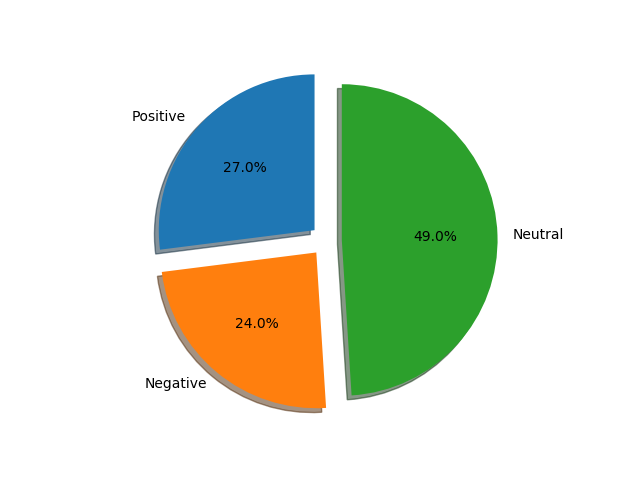
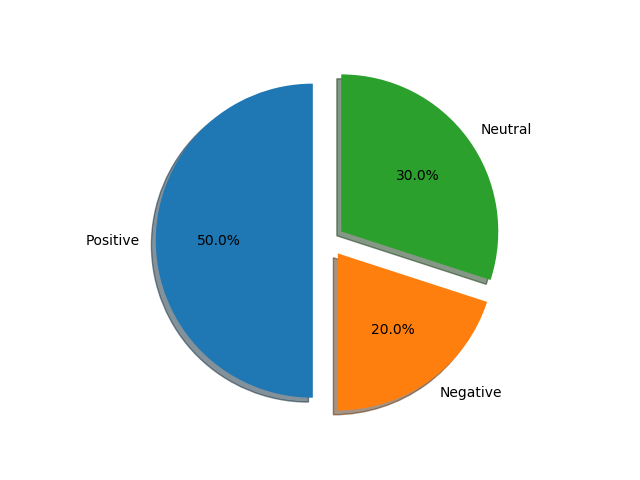
Live Updates
Labels added and drilldown needs to be worked on

diff --git a/templates/tweet.html b/templates/tweet.html
@@ -3,27 +3,137 @@
 <head>
     <meta charset="UTF-8">
     <title>{{ title }}</title>
+    <script src="https://code.highcharts.com/highcharts.js"></script>
+    <script src="https://ajax.googleapis.com/ajax/libs/jquery/3.3.1/jquery.min.js"></script>
 </head>
 <body>
-    <h1>{{ title }}</h1>
-    <img src={{ url}} alt="Chart">
-    <h3>Positive Sentiment: {{ pPer }}%</h3>
-    <ol>
-        {%for i in range(0, pTweetLen)%}
-            <li><img src="{{ pListProfile[i] }}">{{pList[i]}}</li>
-        {%endfor%}
-    </ol>
-    <h3>Neutral Sentiment: {{ nuP }}%</h3>
-    <ol>
-        {%for i in range(0, tweetslen)%}
-            <li>{{List[i]}}</li>
-        {%endfor%}
-    </ol>
-    <h3>Negative Sentiment: {{ negP }}%</h3>
-    <ol>
-        {%for i in range(0, nTweetlen)%}
-            <li>{{nList[i]}}</li>
-        {%endfor%}
-    </ol>
+<h1>{{ title }}</h1>
+<div id="container" style="width:100%; height:400px;"></div>
+<!--img src={{ url}} alt="Chart"-->
+<h3>Positive Sentiment: {{ pPer }}%</h3>
+<ol>
+    {% for i in range(0, pTweetLen) %}
+        <li><img src="{{ pListProfile[i] }}">{{ pList[i] }}</li>
+    {% endfor %}
+</ol>
+<h3>Neutral Sentiment: {{ nuP }}%</h3>
+<ol>
+    {% for i in range(0, tweetslen) %}
+        <li>{{ List[i] }}</li>
+    {% endfor %}
+</ol>
+<h3>Negative Sentiment: {{ negP }}%</h3>
+<ol>
+    {% for i in range(0, nTweetlen) %}
+        <li>{{ nList[i] }}</li>
+    {% endfor %}
+</ol>
 </body>
+<script type="text/javascript">
+    document.addEventListener('DOMContentLoaded', function () {
+        var myChart = Highcharts.chart('container', {
+            chart: {
+                type: 'bar'
+            },
+            title: {
+                text: 'Sentiment'
+            },
+            xAxis: {
+                categories: ['Negative', 'Neutral ', 'Positive']
+            },
+            yAxis: {
+                title: {
+                    text: 'Tweets'
+                }
+            },
+            series: [{
+                name: '{{ title }}',
+                data: [{{ nTweetlen }}, {{ tweetslen }}, {{ pTweetLen }}]
+            },
+                {
+                    'name': 'number 2',
+                    data: [5, 7, 3]
+                }]
+        })
+    });
+    setInterval(update, 5000);
+
+    function update() {
+        console.log('update');
+        const Http = new XMLHttpRequest();
+        const url = 'http://127.0.0.1:5000/update';
+        Http.open("GET", url);
+        Http.send();
+        var myChart = Highcharts.chart('container', {
+            chart: {
+                type: 'bar'
+            },
+            title: {
+                text: 'Sentiment'
+            },
+            xAxis: {
+                categories: ['Negative', 'Neutral ', 'Positive']
+            },
+            yAxis: {
+                title: {
+                    text: 'Tweets'
+                }
+            },
+            legend: {
+                enabled: false
+            },
+            plotOptions: {
+                series: {
+                    borderWidth: 0,
+                    dataLabels: {
+                        enabled: true
+                    }
+                }
+            },
+            series: [{
+                name: '{{ title }}',
+                data: [{
+                    name: 'Negative',
+                    y:{{ nTweetlen }}
+                    ,drilldown: 'Negative'
+                }, {
+                    name: 'Neutral',
+                    y:{{ tweetslen }}
+                    ,drilldown:'Neutral'
+                }, {
+                    name: 'Positive',
+                    y:{{ pTweetLen}}
+                    ,drilldown:'Positive'
+                }]
+            }]
+          ,drilldown:{
+                series: [
+                    {
+                        name: "Negative",
+                        id: "Negative",
+                        data: [{
+                            name: 'Negative',
+                            x:{{ nTweetlen }},
+                        }]
+                    },
+                    {
+                        name: "Neutral",
+                        id: "Neutral",
+                        data: [{
+                            name: 'Neutral',
+                            x:{{ tweetslen }},
+                        }]
+                    },
+                    {
+                        name: "Positive",
+                        id: "Positive",
+                        data: [{
+                            name: 'Positive',
+                            x:{{ pTweetLen }},
+                        }]
+                    }]
+            }
+        })
+    }
+</script>
 </html>

diff --git a/app.py b/app.py
@@ -7,7 +7,7 @@ from matplotlib import pyplot as plt
 
 from tweepy import OAuthHandler
 from textblob import TextBlob
-from flask import Flask, render_template
+from flask import Flask, render_template, jsonify, request
 
 app = Flask(__name__)
 
@@ -139,7 +139,7 @@ def results():
     # printing first 5 positive tweets
     print("\n\nPositive tweets:")
     ptweetsList = []
-    pListProfile =[]
+    pListProfile = []
     for tweet in ptweets:
         # print(tweet['text'])
         pListProfile.append(tweet['profile_pic'])
@@ -174,6 +174,71 @@ def results():
                            pListProfile=pListProfile,
                            List=tweetList, name='new_plot', url='./static/images/new_plot.png',
                            title=topic)
+
+
+@app.route('/update', methods=['GET'])
+def updateResults():
+    # creating object of TwitterClient Class
+    api = TwitterClient()
+    # calling function to get tweets
+    topic = 'Donald Trump'
+    tweets = api.get_tweets(query=topic, count=20000)
+
+    # picking positive tweets from tweets
+    ptweets = [tweet for tweet in tweets if tweet['sentiment'] == 'positive']
+    # percentage of positive tweets
+    print("Positive tweets percentage: {} %".format(100 * len(ptweets) / len(tweets)))
+    pPer = 100 * len(ptweets) / len(tweets)
+    # picking negative tweets from tweets
+    ntweets = [tweet for tweet in tweets if tweet['sentiment'] == 'negative']
+    # percentage of negative tweets
+    print("Negative tweets percentage: {} %".format(100 * len(ntweets) / len(tweets)))
+    negP = 100 * len(ntweets) / len(tweets)
+    # percentage of neutral tweets
+    print("Neutral tweets percentage: {} %".format(100 * (len(tweets) - (len(ntweets) + len(ptweets))) / len(tweets)))
+    nuP = 100 * (len(tweets) - (len(ntweets) + len(ptweets))) / len(tweets)
+    # printing first 5 positive tweets
+    ptweetsList = []
+    pListProfile = []
+    for tweet in ptweets:
+        # print(tweet['text'])
+        # pListProfile.append(tweet['profile_pic'])
+        tweetText = tweet['screen_name'] + " : " + tweet['text']
+        ptweetsList.append(tweetText)
+
+    # printing first 5 negative tweets
+    ntweetList = []
+    for tweet in ntweets:
+        ntweetList.append(tweet['screen_name'] + " : " + tweet['text'])
+
+    nutTweetList = [tweet for tweet in tweets if tweet['sentiment'] == 'neutral']
+    tweetList = []
+    for tweet in nutTweetList:
+        tweetList.append(tweet['screen_name'] + " : " + tweet['text'])
+    # print(topic)
+
+    labels = 'Positive', 'Negative', 'Neutral'
+    sizes = [len(ptweets), len(ntweets), len(tweetList)]
+    explode = (0.1, 0.1, 0.1)  # only "explode" the 2nd slice (i.e. 'Hogs')
+
+    fig1, ax1 = plt.subplots()
+    ax1.pie(sizes, explode=explode, labels=labels, autopct='%1.1f%%',
+            shadow=True, startangle=90)
+    ax1.axis('equal')  # Equal aspect ratio ensures that pie is drawn as a circle.
+    plt.savefig('./static/images/new_plot.png')
+    # plt.show()
+    tweetslen = len(tweetList)
+    nTweetlen = len(ntweets)
+    pTweetLen = len(ptweets)
+    name = 'new_plot'
+    url = './static/images/new_plot.png',
+    title = topic
+    res = {"pPer": pPer, "negP": negP, "nuP": nuP,
+           "tweetslen": tweetslen, "nTweetlen": nTweetlen,
+           "pTweetLen": pTweetLen, "name": name, "url": url,
+           "title": title}
+    print(jsonify(res))
+    return jsonify(res)
 
 
 if __name__ == '__main__':
